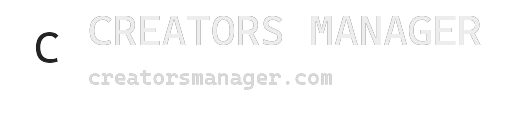
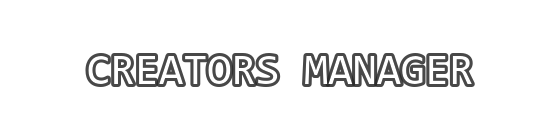
fix(marketplace): que la marca de agua se lea también sobre fondo oscuro
El texto era blanco sin contorno, así que sobre contenido claro se leía y sobre
un fondo oscuro desaparecía. Media marca de agua no es media protección: es
ninguna en las piezas donde no se ve.

Se le agrega contorno al logo, sin subir la opacidad — sigue estorbando lo
mismo (casi nada) para juzgar el contenido, que es para lo que la marca abre el
catálogo.

Cambiar el logo obliga a rehacer lo ya marcado, porque el script solo toca lo
que está sin marcar y el catálogo quedaría con dos marcas conviviendo. De ahí
el modo `rehacer`, que además borra los archivos viejos del bucket: dejarlos
sería acumular una copia muerta por pieza y por rediseño.

diff --git a/apps/marketplace/scripts/marcar-contenido.js b/apps/marketplace/scripts/marcar-contenido.js
@@ -5,6 +5,7 @@
 //   node scripts/marcar-contenido.js posters       # portadas de video
 //   node scripts/marcar-contenido.js videos 20     # videos, de a poco (lento)
 //   node scripts/marcar-contenido.js todo
+//   node scripts/marcar-contenido.js rehacer     # borra lo marcado y vuelve a empezar
 //
 // Los videos se separan a propósito: recodificar uno toma entre diez y treinta
 // segundos, así que doscientos son casi una hora. Las imágenes y las portadas
@@ -156,6 +157,38 @@ async function procesar(filas, que, tarea) {
   return { ok, fallos };
 }
 
+/**
+ * Tira lo ya marcado para volver a marcarlo con el logo actual.
+ *
+ * Hace falta cada vez que cambia el diseño de la marca: el resto del script
+ * solo toca lo que está sin marcar, así que sin esto un logo nuevo solo
+ * aplicaría a las piezas que entren de aquí en adelante y el catálogo quedaría
+ * con dos marcas distintas conviviendo.
+ *
+ * Borra también los archivos viejos del bucket. Dejarlos sería acumular una
+ * copia muerta por pieza y por rediseño, y nadie vuelve a limpiarlas.
+ */
+async function rehacer() {
+  const filas = await conReintento(() => db.get('mk_muestras', {
+    select: 'id,watermark_path,watermark_poster_path',
+    or: '(watermark_path.not.is.null,watermark_poster_path.not.is.null)',
+  }));
+  console.log(`  soltando ${filas.length} piezas ya marcadas`);
+
+  for (const m of filas) {
+    for (const ruta of [m.watermark_path, m.watermark_poster_path]) {
+      if (!ruta) continue;
+      await fetch(`${STORAGE}/${config.supabase.bucket_muestras}/${ruta}`, {
+        method: 'DELETE',
+        headers: { 'Authorization': `Bearer ${config.supabase.service_role_key}` },
+      }).catch(() => {});   // un archivo huérfano es menos grave que parar aquí
+    }
+    await anotar(m.id, {
+      watermark_path: null, watermark_poster_path: null, watermark_at: null,
+    });
+  }
+}
+
 async function main() {
   const args = process.argv.slice(2);
   const que = args.find(a => !/^\d+$/.test(a)) || 'todo';
@@ -163,8 +196,10 @@ async function main() {
 
   console.log(`Marcando: ${que} (tope ${limite})`);
 
-  if (que === 'imagenes' || que === 'todo') await marcarImagenes(limite);
-  if (que === 'posters'  || que === 'todo') await marcarPosters(limite);
+  if (que === 'rehacer') await rehacer();
+
+  if (que === 'rehacer' || que === 'imagenes' || que === 'todo') await marcarImagenes(limite);
+  if (que === 'rehacer' || que === 'posters'  || que === 'todo') await marcarPosters(limite);
   if (que === 'videos'   || que === 'todo') await marcarVideos(limite);
 
   const pend = await conReintento(() =>
